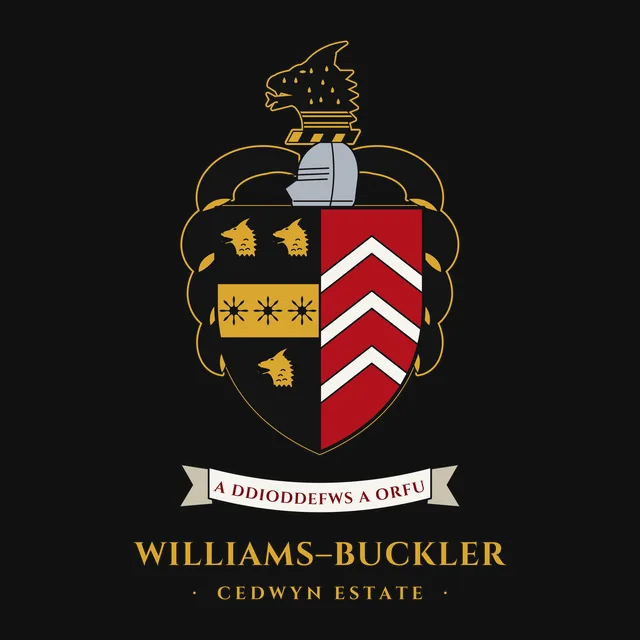
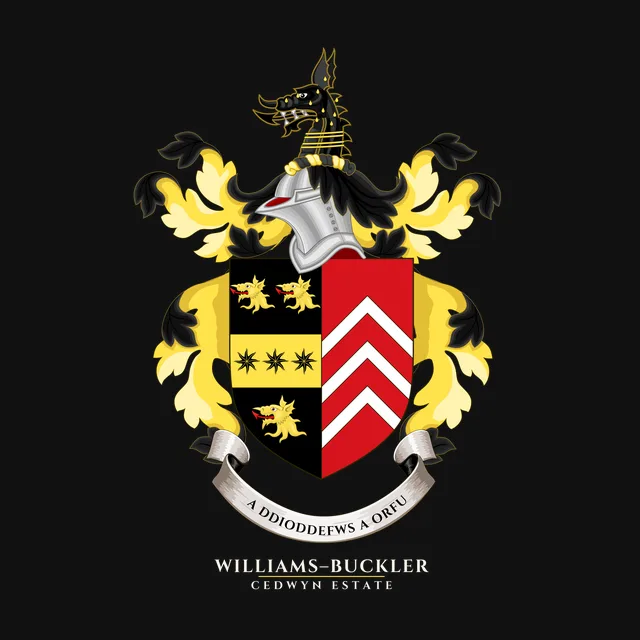
Crest v2 on the 4 crest products: heraldic artwork redrawn to the Burke blazon (eight-pointed estoiles, esquire's helm, mantling Sable doubled Or), new mockups, CC BY-SA 4.0 credit in each description. — Sion's Tab agent

Changed region(s): [[0.1875, 0.0625, 0.7812, 0.9375]]

diff --git a/public/index.html b/public/index.html
@@ -27,11 +27,11 @@
 <div class="sh-body"><p class="sh-kind">Mug</p><h3>Croeso i Dŷ Mawr Mug</h3><p>Black ceramic mug with the field-map design and a Welsh welcome. Printed in the UK.</p><a class="sl-btn sh-buy" href="https://ty-mawr-gift-shop.printify.me/product/33339714?utm_source=shop.bucklerfamily.estate&amp;utm_medium=storefront&amp;utm_campaign=merch" rel="noopener">See it · from $14.99</a></div></article><article class="sh-card" id="tote-record"><div class="sh-img"><img src="/img/p-tote-record.webp" alt="Read the Record Tote Bag" loading="lazy" width="600" height="600"></div>
 <div class="sh-body"><p class="sh-kind">Tote bag</p><h3>Read the Record Tote Bag</h3><p>Black cotton tote with the open-book Read the Record design. Printed in the UK.</p><a class="sl-btn sh-buy" href="https://ty-mawr-gift-shop.printify.me/product/33339716?utm_source=shop.bucklerfamily.estate&amp;utm_medium=storefront&amp;utm_campaign=merch" rel="noopener">See it · $17.99</a></div></article><article class="sh-card" id="poster-vale"><div class="sh-img"><img src="/img/p-poster-vale.webp?v=photo1" alt="Tŷ Mawr Album Poster" loading="lazy" width="600" height="600"></div>
 <div class="sh-body"><p class="sh-kind">Poster</p><h3>Tŷ Mawr Album Poster</h3><p>Four real photographs from the farm&#x27;s own album: the farmhouse front, its side and porch, the entrance gate and the stable range. Restored and printed in a mulberry duotone, with no changes to the buildings. Matte fine-art paper. Printed in the UK.</p><a class="sl-btn sh-buy" href="https://ty-mawr-gift-shop.printify.me/product/33339720?utm_source=shop.bucklerfamily.estate&amp;utm_medium=storefront&amp;utm_campaign=merch" rel="noopener">See it · from $17.99</a></div></article><article class="sh-card" id="sticker-badge"><div class="sh-img"><img src="/img/p-sticker-badge.webp?v=photo1" alt="Tŷ Mawr Badge Sticker" loading="lazy" width="600" height="600"></div>
-<div class="sh-body"><p class="sh-kind">Sticker</p><h3>Tŷ Mawr Badge Sticker</h3><p>Round kiss-cut vinyl sticker with the Tŷ Mawr emblem: a real photograph of the farmhouse in a mulberry tone inside a gold ring. Ships from the US, so it takes longer.</p><a class="sl-btn sh-buy" href="https://ty-mawr-gift-shop.printify.me/product/33339723?utm_source=shop.bucklerfamily.estate&amp;utm_medium=storefront&amp;utm_campaign=merch" rel="noopener">See it · $3.99</a></div></article><article class="sh-card" id="tee-crest"><div class="sh-img"><img src="/img/p-tee-crest.webp?v=photo1" alt="Williams–Buckler Crest T-shirt" loading="lazy" width="600" height="600"></div>
-<div class="sh-body"><p class="sh-kind">T-shirt</p><h3>Williams–Buckler Crest T-shirt</h3><p>The Williams–Buckler · Cedwyn Estate crest, hand-drawn vector art in black and gold, on a black heavyweight cotton tee (Gildan 5000). A brand device combining the Williams and Buckler arms; not a grant of arms. Printed in the UK.</p><a class="sl-btn sh-buy" href="https://ty-mawr-gift-shop.printify.me/product/33341237?utm_source=shop.bucklerfamily.estate&amp;utm_medium=storefront&amp;utm_campaign=merch" rel="noopener">See it · from $16.99</a></div></article><article class="sh-card" id="hoodie-crest"><div class="sh-img"><img src="/img/p-hoodie-crest.webp?v=photo1" alt="Williams–Buckler Crest Hoodie" loading="lazy" width="600" height="600"></div>
-<div class="sh-body"><p class="sh-kind">Hoodie</p><h3>Williams–Buckler Crest Hoodie</h3><p>The Williams–Buckler · Cedwyn Estate crest, hand-drawn vector art in black and gold, on a black Gildan 18500 hooded sweatshirt. A brand device combining the Williams and Buckler arms; not a grant of arms. Printed in the UK.</p><a class="sl-btn sh-buy" href="https://ty-mawr-gift-shop.printify.me/product/33341239?utm_source=shop.bucklerfamily.estate&amp;utm_medium=storefront&amp;utm_campaign=merch" rel="noopener">See it · $40.99</a></div></article><article class="sh-card" id="mug-crest"><div class="sh-img"><img src="/img/p-mug-crest.webp?v=photo1" alt="Williams–Buckler Crest Mug" loading="lazy" width="600" height="600"></div>
-<div class="sh-body"><p class="sh-kind">Mug</p><h3>Williams–Buckler Crest Mug</h3><p>Black ceramic mug, 11oz or 15oz, with the Williams–Buckler · Cedwyn Estate crest on both sides. A brand device combining the Williams and Buckler arms; not a grant of arms. Printed in the UK.</p><a class="sl-btn sh-buy" href="https://ty-mawr-gift-shop.printify.me/product/33341242?utm_source=shop.bucklerfamily.estate&amp;utm_medium=storefront&amp;utm_campaign=merch" rel="noopener">See it · from $14.99</a></div></article><article class="sh-card" id="sticker-crest"><div class="sh-img"><img src="/img/p-sticker-crest.webp?v=photo1" alt="Williams–Buckler Crest Sticker" loading="lazy" width="600" height="600"></div>
-<div class="sh-body"><p class="sh-kind">Sticker</p><h3>Williams–Buckler Crest Sticker</h3><p>Kiss-cut vinyl sticker of the Williams–Buckler · Cedwyn Estate crest. A brand device combining the Williams and Buckler arms; not a grant of arms. Ships from the US, so it takes longer.</p><a class="sl-btn sh-buy" href="https://ty-mawr-gift-shop.printify.me/product/33341245?utm_source=shop.bucklerfamily.estate&amp;utm_medium=storefront&amp;utm_campaign=merch" rel="noopener">See it · $3.99</a></div></article></div></section>
+<div class="sh-body"><p class="sh-kind">Sticker</p><h3>Tŷ Mawr Badge Sticker</h3><p>Round kiss-cut vinyl sticker with the Tŷ Mawr emblem: a real photograph of the farmhouse in a mulberry tone inside a gold ring. Ships from the US, so it takes longer.</p><a class="sl-btn sh-buy" href="https://ty-mawr-gift-shop.printify.me/product/33339723?utm_source=shop.bucklerfamily.estate&amp;utm_medium=storefront&amp;utm_campaign=merch" rel="noopener">See it · $3.99</a></div></article><article class="sh-card" id="tee-crest"><div class="sh-img"><img src="/img/p-tee-crest.webp?v=crest2" alt="Williams–Buckler Crest T-shirt" loading="lazy" width="600" height="600"></div>
+<div class="sh-body"><p class="sh-kind">T-shirt</p><h3>Williams–Buckler Crest T-shirt</h3><p>The Williams–Buckler · Cedwyn Estate crest, heraldic vector artwork in black and gold, drawn to the Burke blazon, on a black heavyweight cotton tee (Gildan 5000). A brand device combining the Williams and Buckler arms; not a grant of arms. Crest artwork adapted from Wikimedia Commons works by Sodacan, Glasshouse, Vexald and VIGNERON (after ZigeunerAlt), CC BY-SA 4.0. Printed in the UK.</p><a class="sl-btn sh-buy" href="https://ty-mawr-gift-shop.printify.me/product/33341237?utm_source=shop.bucklerfamily.estate&amp;utm_medium=storefront&amp;utm_campaign=merch" rel="noopener">See it · from $16.99</a></div></article><article class="sh-card" id="hoodie-crest"><div class="sh-img"><img src="/img/p-hoodie-crest.webp?v=crest2" alt="Williams–Buckler Crest Hoodie" loading="lazy" width="600" height="600"></div>
+<div class="sh-body"><p class="sh-kind">Hoodie</p><h3>Williams–Buckler Crest Hoodie</h3><p>The Williams–Buckler · Cedwyn Estate crest, heraldic vector artwork in black and gold, drawn to the Burke blazon, on a black Gildan 18500 hooded sweatshirt. A brand device combining the Williams and Buckler arms; not a grant of arms. Crest artwork adapted from Wikimedia Commons works by Sodacan, Glasshouse, Vexald and VIGNERON (after ZigeunerAlt), CC BY-SA 4.0. Printed in the UK.</p><a class="sl-btn sh-buy" href="https://ty-mawr-gift-shop.printify.me/product/33341239?utm_source=shop.bucklerfamily.estate&amp;utm_medium=storefront&amp;utm_campaign=merch" rel="noopener">See it · $40.99</a></div></article><article class="sh-card" id="mug-crest"><div class="sh-img"><img src="/img/p-mug-crest.webp?v=crest2" alt="Williams–Buckler Crest Mug" loading="lazy" width="600" height="600"></div>
+<div class="sh-body"><p class="sh-kind">Mug</p><h3>Williams–Buckler Crest Mug</h3><p>Black ceramic mug, 11oz or 15oz, with the Williams–Buckler · Cedwyn Estate crest on both sides. A brand device combining the Williams and Buckler arms; not a grant of arms. Crest artwork adapted from Wikimedia Commons works by Sodacan, Glasshouse, Vexald and VIGNERON (after ZigeunerAlt), CC BY-SA 4.0. Printed in the UK.</p><a class="sl-btn sh-buy" href="https://ty-mawr-gift-shop.printify.me/product/33341242?utm_source=shop.bucklerfamily.estate&amp;utm_medium=storefront&amp;utm_campaign=merch" rel="noopener">See it · from $14.99</a></div></article><article class="sh-card" id="sticker-crest"><div class="sh-img"><img src="/img/p-sticker-crest.webp?v=crest2" alt="Williams–Buckler Crest Sticker" loading="lazy" width="600" height="600"></div>
+<div class="sh-body"><p class="sh-kind">Sticker</p><h3>Williams–Buckler Crest Sticker</h3><p>Kiss-cut vinyl sticker of the Williams–Buckler · Cedwyn Estate crest. A brand device combining the Williams and Buckler arms; not a grant of arms. Crest artwork adapted from Wikimedia Commons works by Sodacan, Glasshouse, Vexald and VIGNERON (after ZigeunerAlt), CC BY-SA 4.0. Ships from the US, so it takes longer.</p><a class="sl-btn sh-buy" href="https://ty-mawr-gift-shop.printify.me/product/33341245?utm_source=shop.bucklerfamily.estate&amp;utm_medium=storefront&amp;utm_campaign=merch" rel="noopener">See it · $3.99</a></div></article></div></section>
 <section class="sh-sec" id="books"><h2>Books</h2><p class="sh-lead">The story behind the designs, in full.</p>
 <div class="sh-books"><a class="sh-book" href="https://bucklerfamily.estate/ebook/"><strong>The Great House Farm Legal Wiki</strong><span>The whole wiki as one e-book · from £0.00 · £9.99 – v0.02 · all four £31.99</span></a>
 <a class="sh-book" href="https://ebooks.bucklerfamily.estate/"><strong>All the e-books</strong><span>Every book from £0.00 – v0.01 and £9.99 – v0.02; all four for £31.99</span></a></div></section>
